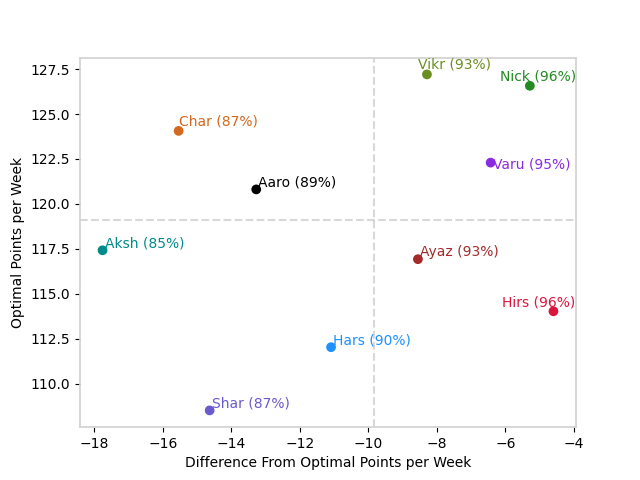
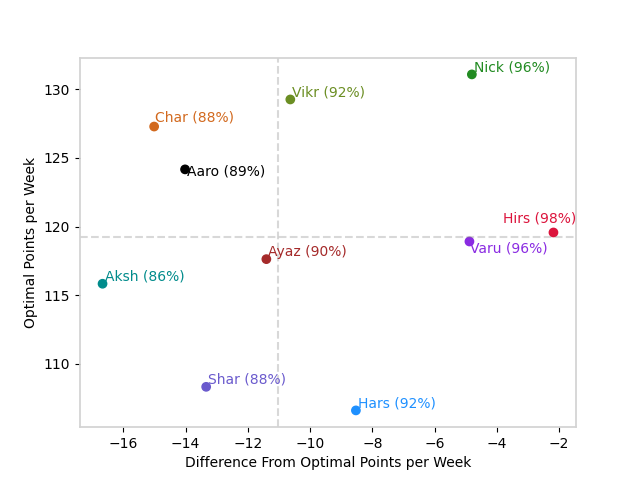
updates to power rankings

diff --git a/scripts/home/power_ranks.py b/scripts/home/power_ranks.py
@@ -2,13 +2,15 @@ import pandas as pd
 import numpy as np
 import math
 
+from scripts.utils.database import Database
+
 
 def linear_decay(x, r):
     """Calculates weights for each week using an linear decay function"""
     return r / ((x * (x + 1)) / 2)
 
 
-def exp_decay(week: int, r=1.5, reverse=False) -> list:
+def exp_decay(week: int, r=3, reverse=False) -> list:
     """Calculates weights for each week using an exponential decay function"""
 
     wts = []
@@ -33,7 +35,7 @@ def scale_luck(x, from_min=-1, from_max=1, to_min=0, to_max=1):
     return (x - from_min) * (to_max - to_min) / (from_max - from_min) + to_min
 
 
-def power_rank(params, week):
+def power_rank(season, week):
     """
     Calculates a weekly power ranking and power score for each team
     Factors taken into account:
@@ -42,82 +44,72 @@ def power_rank(params, week):
         2. Consistency Index (20%) - variance of weekly scoring
         3. Luck Index (10%) - difference in matchup wins vs. expected
     """
-
-    # return parameters
-    matchup_df = params['matchup_df']
-    n_teams = params['league_size']
-    teams = params['teams']
-    teams.sort()
+    with Database().connection as conn:
+        query = f'''
+        SELECT *
+        FROM matchups
+        WHERE season={season} AND week<={week}
+        '''
+        matchups = pd.read_sql(query, con=conn)
+    matchups['median'] = matchups.groupby('week')['score'].transform('median')
 
     # scoring weights
-    ts_idx_wt = 0.4
-    ws_idx_wt = 0.3
-    c_idx_wt = 0.2
-    l_idx_wt = 0.1
+    if week == 1:
+        ts_idx_wt = 0.45
+        ws_idx_wt = 0.45
+        c_idx_wt = 0.0
+        l_idx_wt = 0.1
+    else:
+        ts_idx_wt = 0.4
+        ws_idx_wt = 0.3
+        c_idx_wt = 0.2
+        l_idx_wt = 0.1
 
-    # Calculate W/L
-    matchup_df = matchup_df[matchup_df.week <= week]
-    matchup_df['team1_result'] = np.where(matchup_df['score1'] > matchup_df['score2'], 1.0, 0.0)
-    matchup_df['team2_result'] = np.where(matchup_df['score2'] > matchup_df['score1'], 1.0, 0.0)
-    mask = (matchup_df.score1 == matchup_df.score2)\
-           & (matchup_df.score1 > 0)\
-           & (matchup_df.score2 > 0)  # Account for ties
-    matchup_df.loc[mask, ['team1_result', 'team2_result']] = 0.5
-
-    # convert dataframe to long format so each row is a team week, not matchup
-    home = matchup_df.iloc[:, [0, 1, 2, 5]].rename(columns={
-        'team1_id': 'team',
-        'score1': 'score',
-        'team1_result': 'result'
-    })
-    home['id'] = home['team'].astype(str) + home['week'].astype(str)
-    away = matchup_df.iloc[:, [0, 3, 4, 6]].rename(columns={
-        'team2_id': 'team',
-        'score2': 'score',
-        'team2_result': 'result'
-    })
-    away['id'] = away['team'].astype(str) + away['week'].astype(str)
-    pr_df = pd.concat([home, away]).sort_values(['week', 'id']).reset_index(drop=True)
-    pr_df['rank'] = pr_df.groupby('week').score.rank()
-
-    ppg_med = pr_df.groupby('team').score.mean().median()
+    ppg_med = matchups.groupby('team').score.mean().median()
     wts = exp_decay(week=week, reverse=False)
     pr_dict = {}
-    for t in teams:
+    for t in matchups.team:
         scores = []
-        luck = []
-        pr_tm = pr_df[pr_df.team == t]
-        ts_index = scoring_index(pr_tm.score.mean(), ppg_med*14, 1)
+        pr_tm = matchups[matchups.team == t]
+        tm_score_index = scoring_index(pr_tm.score.mean(), ppg_med, weight=1)
+        pr_dict[t] = {'season_idx': tm_score_index.item()}
         for wk in range(1, week+1):
             # Weekly Scoring Index
             pr_wk = pr_tm[pr_tm.week == wk]
-            wk_med = round(np.median(pr_df[pr_df.week == wk].score.to_list()), 2)
+            wk_med = pr_wk['median'].values[0]
             wk_wt = wts[wk-1]
             wk_t_score = pr_wk.score.values[0]
             s_idx = scoring_index(score=wk_t_score, median=wk_med, weight=wk_wt)
             scores.append(s_idx)
-
-            # Luck Index
-            raw_score = (pr_wk['result'] - ((pr_wk['rank']-1) / (n_teams-1))).item()
-            luck.append(round(raw_score, 2))
-
-        pr_dict[t] = [ts_index]
-        pr_dict[t].append[sum(scores)]
-        pr_dict[t].append(round(1-scale_luck(x=sum(luck)), 2))
+        pr_dict[t].update({'week_idx': sum(scores).item()})
 
         # Consistency Index
         sd = pr_tm.score.std()
         tm_ppg = pr_tm.score.mean()
-        c_idx = 0 if len(pr_tm) < 2 else consistency_index(sd=sd, ppg=tm_ppg, ppg_median=ppg_med)
-        pr_dict[t].append(c_idx)
+        c_idx = float(0) if len(pr_tm) < 2 else consistency_index(sd=sd, ppg=tm_ppg, ppg_median=ppg_med)
+        try:
+            pr_dict[t].update({'consistency_idx': c_idx.item()})
+        except AttributeError:
+            pr_dict[t].update({'consistency_idx': c_idx})
 
-        total_score = (pr_dict[t][0] * ts_idx_wt)\
-                      + (pr_dict[t][1] * ws_idx_wt)\
-                      + (pr_dict[t][2] * c_idx_wt)\
-                      + (pr_dict[t][3] * l_idx_wt)
-        pr_dict[t] = total_score
+        # Luck Index
+        luck_score = pr_tm.tophalf_result.sum() - pr_tm.matchup_result.sum()
+        pr_dict[t].update({'luck_idx': scale_luck(luck_score, from_min=-week, from_max=week).item()})
 
-    med = np.median([v for v in pr_dict.values()])
-    sorted_pr = {k: v / med for k, v in sorted(pr_dict.items(), key=lambda item: item[1])}
+        total_score = (pr_dict[t]['season_idx'] * ts_idx_wt)\
+                      + (pr_dict[t]['week_idx'] * ws_idx_wt)\
+                      + (pr_dict[t]['consistency_idx'] * c_idx_wt)\
+                      + ((pr_dict[t]['luck_idx']-0.5) * l_idx_wt)
+        pr_dict[t].update({'power_score_raw': total_score})
 
-    return sorted_pr
+    meds = []
+    for outer_key, inner_dict in pr_dict.items():
+        for inner_key, value in inner_dict.items():
+            if inner_key == 'power_score_raw':
+                meds.append(value)
+    med = np.median(meds).item()
+    for k, v in pr_dict.items():
+        pr_dict[k].update({'power_score_norm': v['power_score_raw']/med})
+    sorted_pr_norm = dict(sorted(pr_dict.items(), key=lambda item: item[1]['power_score_norm']))
+
+    return sorted_pr_norm

diff --git a/scripts/home/standings.py b/scripts/home/standings.py
@@ -333,9 +333,9 @@ class Standings:
             self.standings_df['pb6'] = round(float(six_seed_points) - self.standings_df.total_points.astype(float), 2)
 
             self.standings_df['total_points_disp'] = self.standings_df.total_points.apply(lambda x: self._format_points(x))
-            self.standings_df['wb2'] = self.standings_df.apply(lambda x: self._clinch_bye(x, week=self.week, three_seed_wins=three_seed_wins), axis=1)
+            self.standings_df['wb2'] = self.standings_df.apply(lambda x: self._clinch_bye(x, three_seed_wins=three_seed_wins), axis=1)
             self.standings_df['wb2_disp'] = self.standings_df.wb2.apply(lambda x: self._format_weeks_back(x))
-            self.standings_df['wb5'] = self.standings_df.apply(lambda x: self._clinch_playoff(x, week=self.week, sixth_wins=sixth_wins), axis=1)
+            self.standings_df['wb5'] = self.standings_df.apply(lambda x: self._clinch_playoff(x, sixth_wins=sixth_wins), axis=1)
             self.standings_df['wb5_disp'] = self.standings_df.wb5.apply(lambda x: self._format_weeks_back(x))
             self.standings_df['pb6_disp'] = self.standings_df.pb6.apply(lambda x: self._format_points_back(x))
 

diff --git a/scripts/utils/load_db.py b/scripts/utils/load_db.py
@@ -25,6 +25,30 @@ for s in range(2018, 2024):
             db.commit_row()
 
 
+##### POWER RANKS
+from scripts.home.power_ranks import power_rank
+import pandas as pd
+
+pr_table = 'power_ranks'
+pr_cols = constants.POWER_RANK_COLUMNS
+for s in range(2018, 2024):
+    data = DataLoader(year=s)
+    params = Params(data=data)
+    for wk in range(1, params.regular_season_end+1):
+        df = pd.DataFrame(power_rank(s, wk)).transpose()
+        df['season'] = s
+        df['week'] = wk
+        df = df.reset_index().rename(columns={'index': 'team'})
+        df['id'] = df['season'].astype(str) + '_' + df['week'].astype(str) + '_' + df['team']
+        df['power_rank'] = df.power_score_norm.rank(ascending=False)
+        df = df[pr_cols.split(', ')]
+        for _, row in df.iterrows():
+            pr_vals = tuple(row)
+            db = Database(data=df, table=pr_table, columns=pr_cols, values=pr_vals)
+            db.commit_row()
+
+
+
 ##### SCENARIOS
 from scripts.api.Teams import Teams
 from scripts.scenarios.scenarios import get_h2h, schedule_switcher

diff --git a/scripts/efficiency/efficiencies.py b/scripts/efficiency/efficiencies.py
@@ -157,15 +157,15 @@ def plot_efficiency(database: Database,
 
     cols = eff.select_dtypes(include=['float']).columns.tolist()
     df = eff.groupby('team')[cols].sum() / week
-    df['act_opt_perc'] = df.act_score / df.optimal_lineup_act
-    df['diff_from_opt'] = df.act_score - df.optimal_lineup_act
-    df['act_bestproj_perc'] = df.act_score / df.best_projected_act
+    df['act_opt_perc'] = df.actual_lineup_score / df.optimal_lineup_score
+    df['diff_from_opt'] = df.actual_lineup_score - df.optimal_lineup_score
+    df['act_bestproj_perc'] = df.actual_lineup_score / df.best_projected_lineup_score
 
     # plot
     teams = df.index.to_list()
     perc = [f'{round(p * 100)}%' for p in df.act_opt_perc.to_list()]
     x = df.diff_from_opt.to_list()
-    y = df.optimal_lineup_act.to_list()
+    y = df.optimal_lineup_score.to_list()
 
     colors = ['black', 'darkcyan', 'brown', 'chocolate', 'dodgerblue', 'crimson',
               'forestgreen', 'slateblue', 'blueviolet', 'olivedrab', 'lightseagreen', 'grey']

diff --git a/scripts/utils/constants.py b/scripts/utils/constants.py
@@ -25,8 +25,8 @@ SWID = os.getenv('SWID')
 ESPN_S2 = os.getenv('ESPN_S2')
 
 # Database columns for inserts
-MATCHUP_COLUMNS = 'id, season, week, team, opponent, matchup_result, tophalf_result, score'
-POWER_RANK_COLUMNS = ''
+MATCHUP_COLUMNS = 'id, season, week, team, opponent, matchup_result, tophalf_result, score, rank'
+POWER_RANK_COLUMNS = 'id, season, week, team, season_idx, week_idx, consistency_idx, luck_idx, power_score_raw, power_score_norm, power_rank'
 PROJECTIONS_COLUMNS = 'id, season, week, name, espn_id, position, receptions, projection'
 H2H_COLUMNS = 'id, season, week, team, opponent, result'
 EFFICIENCY_COLUMNS = 'id, season, week, team, actual_lineup_score, actual_lineup_projected, best_projected_lineup_score, best_projected_lineup_projected, optimal_lineup_score, optimal_lineup_projected'
